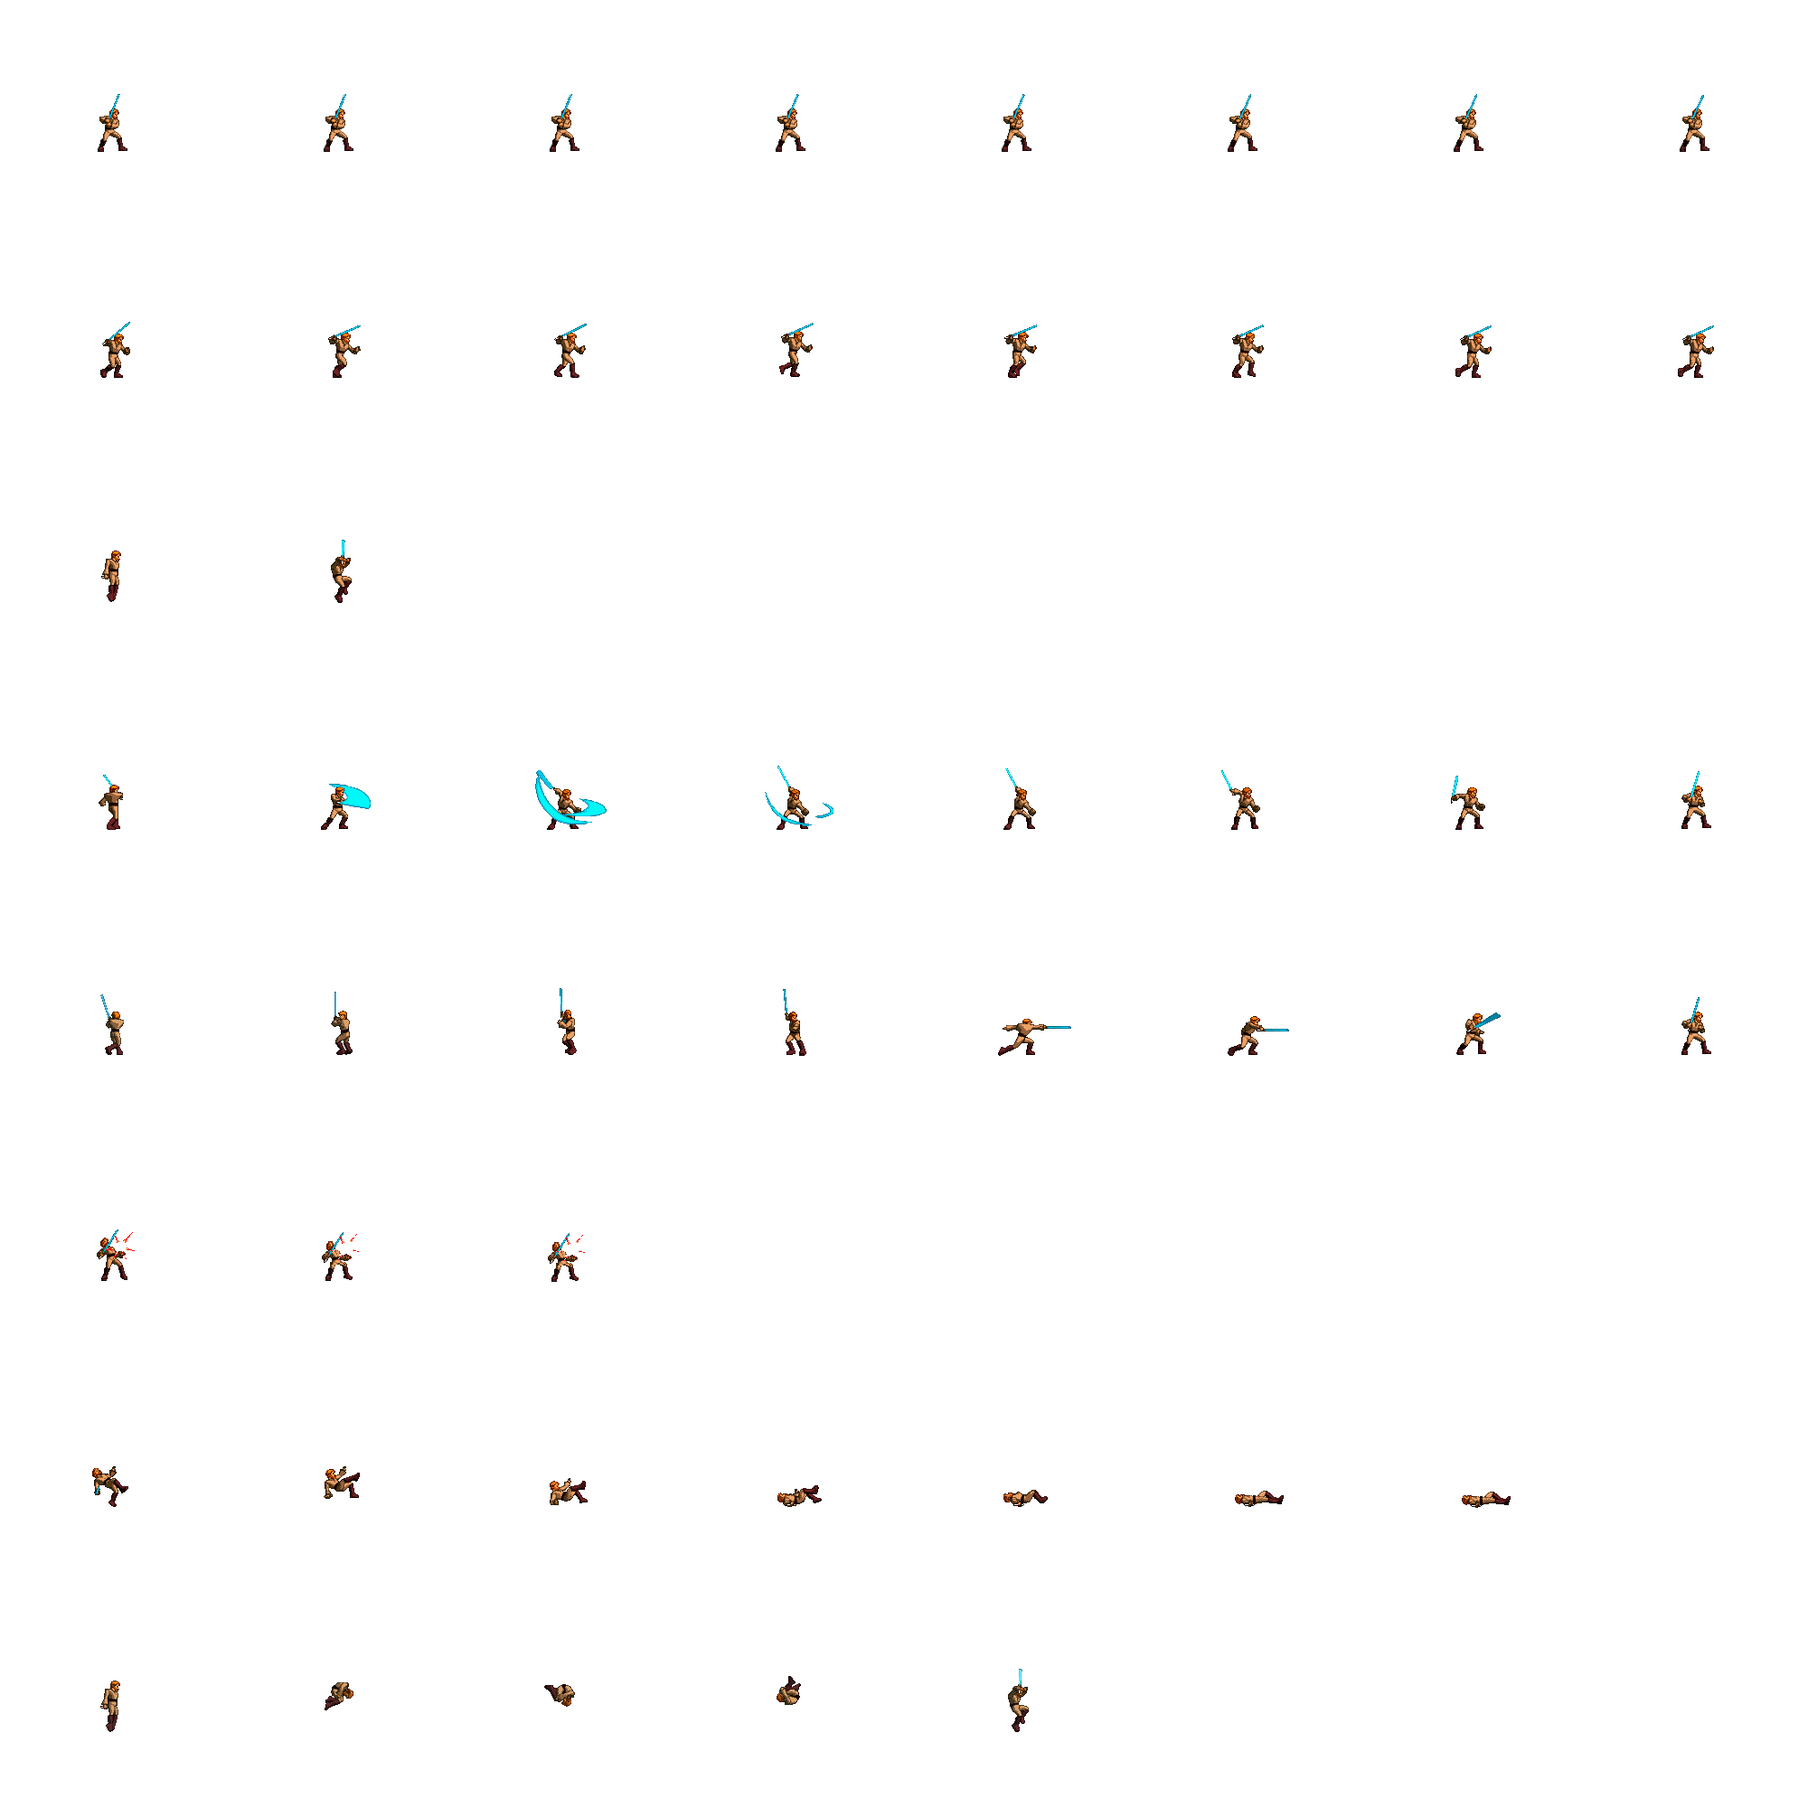
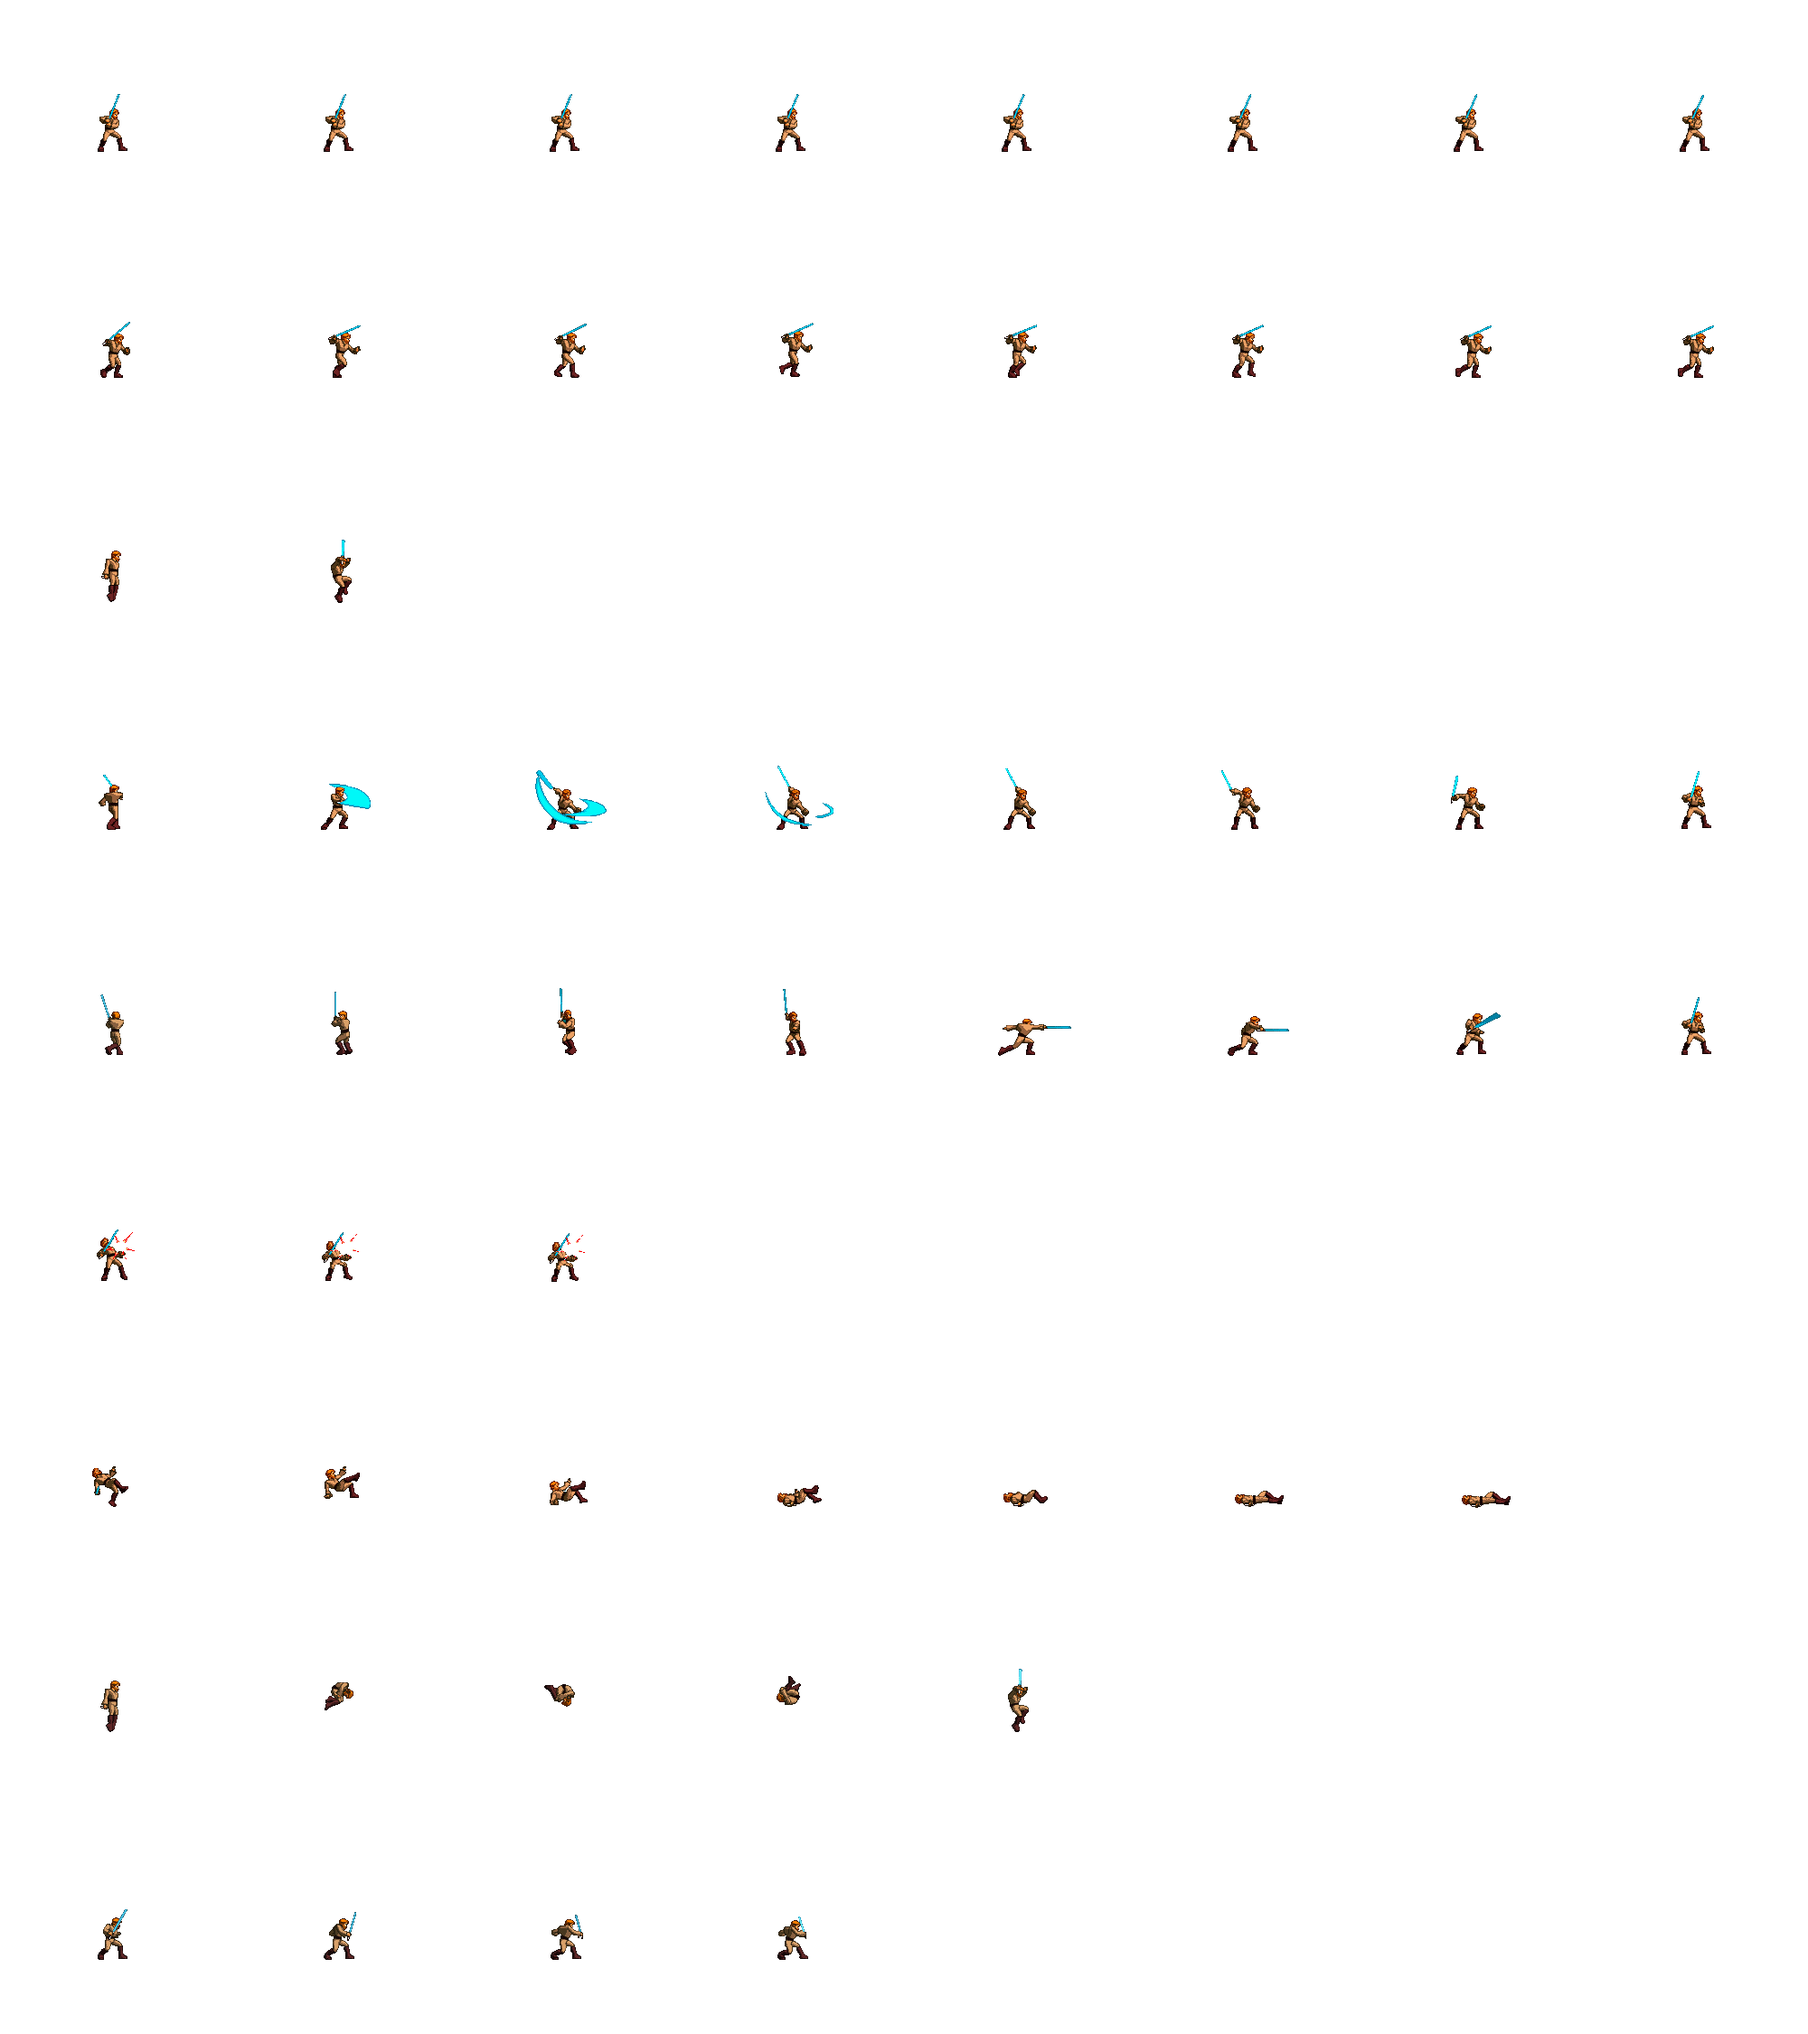
Add files via upload

diff --git a/fighters/fighter.py b/fighters/fighter.py
@@ -69,7 +69,7 @@ class Fighter():
           dx = speed
           self.running = True
         #jump
-        if (key[pygame.K_w] and self.jump == False):
+        if (key[pygame.K_w] and not self.jump and not self.defending ):
           if self.running == True:
             self.vel_y = -35
           else:
@@ -77,7 +77,7 @@ class Fighter():
 
           self.jump = True
         #attack
-        if key[pygame.K_r] or key[pygame.K_t]:
+        if (key[pygame.K_r] or key[pygame.K_t]) and not self.defending:
           self.attack(target)
           #determine which attack type was used
           if key[pygame.K_r]:
@@ -117,14 +117,14 @@ class Fighter():
       #check player 2 controls
       if self.player == 2:
         #movement
-        if key[pygame.K_LEFT]:
+        if key[pygame.K_LEFT] and not self.defending:
           dx = -speed
           self.running = True
-        if key[pygame.K_RIGHT]:
+        if key[pygame.K_RIGHT] and not self.defending:
           dx = speed
           self.running = True
         #jump
-        if key[pygame.K_UP] and self.jump == False:
+        if key[pygame.K_UP] and self.jump == False and not self.defending:
           if self.running == True:
             self.vel_y = -30
           else: 
@@ -133,11 +133,11 @@ class Fighter():
 
         #attack
         # Aceita o número '9' e '0' da linha superior e '1' e '2' do teclado numérico
-        if key[pygame.K_9] or key[pygame.K_KP1]:
+        if (key[pygame.K_9] or key[pygame.K_KP1]) and not self.defending:
           self.attack(target)
           self.attack_type = 1
         
-        elif key[pygame.K_0] or key[pygame.K_KP2]:
+        elif (key[pygame.K_0] or key[pygame.K_KP2]) and not self.defending:
           self.attack(target)
           self.attack_type = 2
 
@@ -204,7 +204,7 @@ class Fighter():
     animation_cooldown = 70
 
     #velocidade de cada animação
-    animation_speeds = [100, 70, 70, 70, 70, 70,160, 150, 60]
+    animation_speeds = [100, 70, 70, 50, 50, 70,160, 150, 50]
     animation_cooldown = animation_speeds[self.action]
 
     #update image
@@ -251,24 +251,13 @@ class Fighter():
             target.defending = False
             target.defense_broken = True
             target.hit = True
-            target.health -= 10  # dano cheio após quebra
+            target.health -= 10  #dano cheio após quebra
           else:
-            target.health -= 1  # dano reduzido
+            target.health -= 1  #dano reduzido
         else:
           target.health -= 10
           target.hit = True
-        if target.defending:
-          target.defense_hits_taken += 1
-          if target.defense_hits_taken >= target.defense_break_threshold:
-            target.defending = False
-            target.defense_broken = True
-            target.hit = True
-            target.health -= 10  # dano cheio após quebra
-          else:
-            target.health -= 1  # dano reduzido
-        else:
-          target.health -= 10
-          target.hit = True
+        
 
 
   def update_action(self, new_action):

diff --git a/fighters/fighterConstructor.py b/fighters/fighterConstructor.py
@@ -3,14 +3,14 @@ from fighters.fighter import Fighter;
 
 class FighterConstructor():
     def Anakin():
-        fighter1_animation_steps = [10, 8, 1, 4, 4, 3, 7, 5, 3] #usando metade dos ataques
+        fighter1_animation_steps = [10, 8, 1, 8, 8, 3, 7, 5, 3] #usando metade dos ataques
         figther1_sheet = pygame.image.load("assets/images/jogo/fighter1.png").convert_alpha()
         player1_icon = pygame.image.load("assets/images/icons/fighter1.png").convert_alpha()
         fighter1_data = [162, 3, [72,40]] #size, scale, offset
         return Fighter(1, 200, 310, False, fighter1_data, figther1_sheet, fighter1_animation_steps)
     
     def Obiwan():
-        fighter2_animation_steps = [8, 8, 1, 8, 8, 3, 7, 5]
+        fighter2_animation_steps = [8, 8, 1, 8, 8, 3, 7, 5, 4]
         fighter2_sheet = pygame.image.load("assets/images/jogo/fighter2.png").convert_alpha()
         player2_icon = pygame.image.load("assets/images/icons/fighter2.png").convert_alpha()
         fighter_data = [250, 3, [112, 106]] #size, scale, offset

diff --git a/main.py b/main.py
@@ -157,10 +157,19 @@ def jogo():
           main_menu()
         if event.key == pygame.K_e:
            fighter_1.defense_key_held = True
+        if event.key == pygame.K_KP_3:
+           fighter_2.defense_key_held = True
+           
+
+
+
+           
       
       if event.type == pygame.KEYUP:
          if event.key == pygame.K_e:
             fighter_1.defense_key_held = False
+         if event.key == pygame.K_KP_3:
+            fighter_2.defense_key_held = False
 
     pygame.display.update()
 
